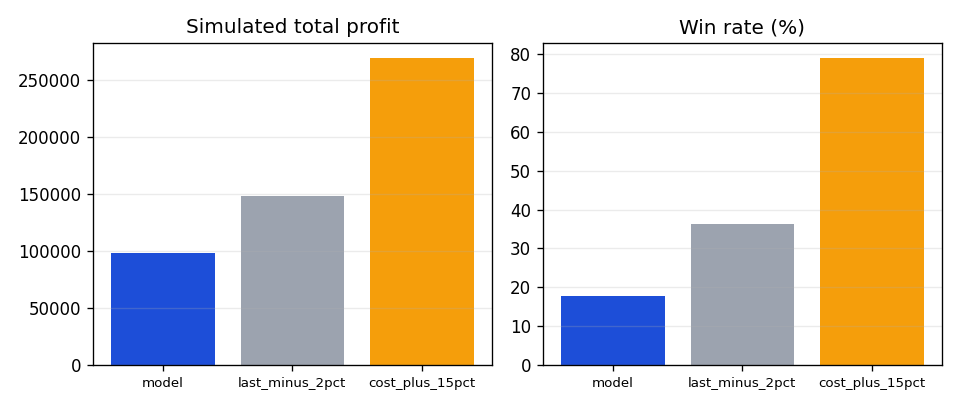
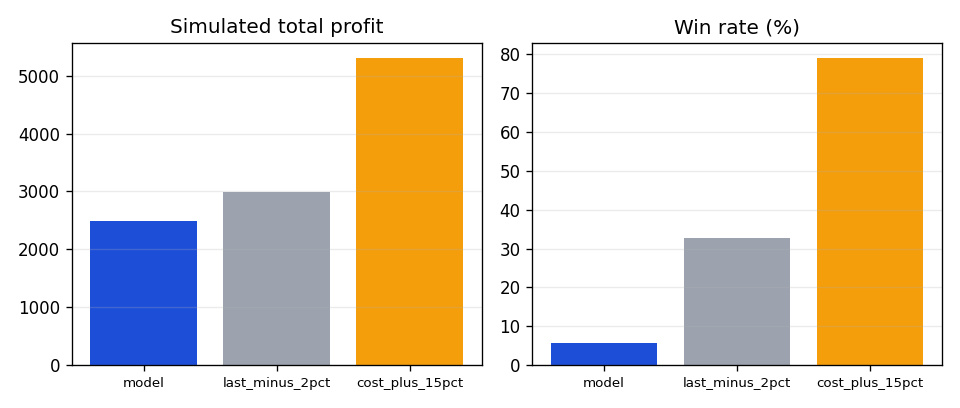
Restore ml/reports: regenerated by a local test run, not a real model update

diff --git a/ml/reports/latest_model.md b/ml/reports/latest_model.md
@@ -1,8 +1,8 @@
 # Latest pricing model
 
-Model run **#2**: not promoted (pinball 0.0610 >= active 0.0610).
+Model run **#2**: not promoted (pinball 0.0689 >= active 0.0689).
 
-_Trained on 1,766 award rows, of which 1,762 are the synthetic demo history from `make seed`. Metrics on synthetic data show the pipeline works; they are not evidence about real DIBBS prices._
+_Trained on 1,458 award rows, of which 1,454 are the synthetic demo history from `make seed`. Metrics on synthetic data show the pipeline works; they are not evidence about real DIBBS prices._
 
 ## Data and time windows
 
@@ -10,9 +10,9 @@ Time-based split, never random: train on everything up to T-4 months, conformal 
 
 | Window | Dates | Rows |
 |---|---|---|
-| Train | 2023-01-02 .. 2026-07-18 | 1,611 |
-| Calibrate | 2026-07-18 .. 2026-08-18 | 37 |
-| Test | 2026-08-18 .. 2026-11-18 | 118 |
+| Train | 2023-01-01 .. 2026-06-15 | 1,354 |
+| Calibrate | 2026-06-15 .. 2026-07-15 | 33 |
+| Test | 2026-07-15 .. 2026-10-15 | 71 |
 
 
 Cold-start share of test rows (no prior award for the NSN): 0.0%.
@@ -23,13 +23,13 @@ Target: log(winning unit price / reference price). Pinball loss is averaged over
 
 | Metric | LightGBM + conformal | LightGBM (uncalibrated) | Baseline |
 |---|---|---|---|
-| Mean pinball loss | **0.0610** | 0.0585 | 0.1020 |
-| MAPE of median | 17.1% | 16.3% | 29.4% |
-| Median abs. % error | 13.5% | 12.6% | 22.5% |
-| 80% interval coverage | 95.8% | 69.5% | 73.7% |
-| 90% interval coverage | 98.3% | 79.7% | 82.2% |
+| Mean pinball loss | **0.0689** | 0.0636 | 0.0931 |
+| MAPE of median | 19.2% | 18.7% | 29.3% |
+| Median abs. % error | 14.2% | 13.5% | 19.2% |
+| 80% interval coverage | 85.9% | 66.2% | 77.5% |
+| 90% interval coverage | 90.1% | 77.5% | 85.9% |
 
-Previously active model on the same test window: pinball 0.0610, 80% coverage 95.8%.
+Previously active model on the same test window: pinball 0.0689, 80% coverage 85.9%.
 
 ![Pinball loss by quantile](pinball.png)
 
@@ -37,9 +37,9 @@ Previously active model on the same test window: pinball 0.0610, 80% coverage 95
 
 | Level | 0.05 | 0.10 | 0.20 | 0.30 | 0.40 | 0.50 | 0.60 | 0.70 | 0.80 | 0.90 | 0.95 |
 |---|---|---|---|---|---|---|---|---|---|---|---|
-| Model | 0.01 | 0.02 | 0.11 | 0.28 | 0.42 | 0.57 | 0.64 | 0.81 | 0.86 | 0.97 | 0.99 |
-| Before conformal | 0.08 | 0.12 | 0.21 | 0.35 | 0.42 | 0.49 | 0.54 | 0.63 | 0.71 | 0.81 | 0.88 |
-| Baseline | 0.08 | 0.10 | 0.20 | 0.29 | 0.36 | 0.49 | 0.61 | 0.67 | 0.77 | 0.84 | 0.90 |
+| Model | 0.10 | 0.13 | 0.14 | 0.28 | 0.38 | 0.55 | 0.73 | 0.90 | 0.97 | 0.99 | 1.00 |
+| Before conformal | 0.17 | 0.20 | 0.28 | 0.32 | 0.38 | 0.48 | 0.56 | 0.68 | 0.76 | 0.86 | 0.94 |
+| Baseline | 0.10 | 0.14 | 0.23 | 0.38 | 0.45 | 0.54 | 0.62 | 0.70 | 0.83 | 0.92 | 0.96 |
 
 ![Coverage](coverage.png)
 
@@ -49,18 +49,18 @@ For every test line, 5 bids are sampled around the reference price (b = ref x ex
 
 | Predicted bucket | Mean predicted | Observed | Count |
 |---|---|---|---|
-| 0.0-0.1 | 0.075 | 0.021 | 48 |
-| 0.1-0.2 | 0.140 | 0.082 | 85 |
-| 0.2-0.3 | 0.249 | 0.310 | 29 |
-| 0.3-0.4 | 0.343 | 0.267 | 75 |
-| 0.4-0.5 | 0.450 | 0.364 | 22 |
-| 0.5-0.6 | 0.555 | 0.396 | 53 |
-| 0.6-0.7 | 0.648 | 0.775 | 40 |
-| 0.7-0.8 | 0.755 | 0.807 | 83 |
-| 0.8-0.9 | 0.855 | 0.930 | 86 |
-| 0.9-1.0 | 0.955 | 1.000 | 69 |
+| 0.0-0.1 | 0.065 | 0.000 | 22 |
+| 0.1-0.2 | 0.150 | 0.000 | 23 |
+| 0.2-0.3 | 0.256 | 0.050 | 60 |
+| 0.3-0.4 | 0.350 | 0.205 | 44 |
+| 0.4-0.5 | 0.439 | 0.212 | 33 |
+| 0.5-0.6 | 0.552 | 0.739 | 23 |
+| 0.6-0.7 | 0.661 | 0.756 | 41 |
+| 0.7-0.8 | 0.742 | 0.780 | 41 |
+| 0.8-0.9 | 0.841 | 0.810 | 21 |
+| 0.9-1.0 | 0.979 | 0.936 | 47 |
 
-Brier score 0.1270, expected calibration error 0.0751 (baseline: Brier 0.2098, ECE 0.0517).
+Brier score 0.1334, expected calibration error 0.1228 (baseline: Brier 0.1923, ECE 0.0601).
 
 ![P(win) calibration](calibration.png)
 
@@ -70,9 +70,9 @@ Assumption: landed cost = winning price x U(0.6, 0.95); bid wins iff bid < winni
 
 | Policy | Bids | Withheld by rules | Wins | Win rate | Total profit | Net of effort | Net per line | Wins below cost |
 |---|---|---|---|---|---|---|---|---|
-| model | 118 | 0 | 21 | 17.8% | $98,712 | $96,942 | $821.54 | 0 |
-| last_minus_2pct | 77 | 41 | 28 | 36.4% | $147,870 | $146,715 | $1,243.35 | 0 |
-| cost_plus_15pct | 118 | 0 | 93 | 78.8% | $268,719 | $266,949 | $2,262.28 | 0 |
+| model | 71 | 0 | 4 | 5.6% | $2,488 | $1,423 | $20.04 | 0 |
+| last_minus_2pct | 52 | 19 | 17 | 32.7% | $2,994 | $2,214 | $31.19 | 0 |
+| cost_plus_15pct | 71 | 0 | 56 | 78.9% | $5,298 | $4,233 | $59.62 | 0 |
 
 ![Backtest](backtest.png)
 
@@ -80,21 +80,21 @@ Assumption: landed cost = winning price x U(0.6, 0.95); bid wins iff bid < winni
 
 | Feature | Importance |
 |---|---|
-| log_last_to_dod | 12.8% |
-| qty_rel_median | 8.9% |
-| log_qty_vs_last | 8.4% |
-| f_min | 7.5% |
-| f_max | 7.2% |
-| trend_per_year | 6.2% |
-| f_last3_median | 5.8% |
-| log_ref_price | 5.6% |
-| volatility | 5.5% |
-| days_since_last_award | 4.9% |
-| log_quantity | 4.0% |
+| qty_rel_median | 10.3% |
+| f_min | 9.0% |
+| log_qty_vs_last | 8.1% |
+| log_last_to_dod | 7.8% |
+| volatility | 7.4% |
+| f_last3_median | 7.0% |
+| trend_per_year | 6.9% |
+| f_max | 6.5% |
+| log_quantity | 6.3% |
+| log_ref_price | 5.8% |
+| days_since_last_award | 5.1% |
 | inflation_change | 4.0% |
 | incumbent_share | 3.3% |
-| n_prior_awards | 3.0% |
-| fam_log_ref_vs_fsc | 2.1% |
+| n_prior_awards | 2.6% |
+| type_code | 2.2% |
 
 ## Caveats
 

diff --git a/ml/reports/fsc_volume.md b/ml/reports/fsc_volume.md
@@ -1,12 +1,12 @@
 # FSC volume report
 
-Generated 2026-11-18 from the database (real DIBBS data only; synthetic SPEZZ* demo rows excluded).
+Generated 2026-10-15 from the database (real DIBBS data only; synthetic SPEZZ* demo rows excluded).
 
 Ranked by number of solicitations. `*` marks the current default watchlist.
 
 | FSC | Solicitations | Automated (T/U) | Median award value | NSNs with >= 3 awards | Distinct awardees | NSNs | Award rows |
 |---|---|---|---|---|---|---|---|
-| 6145 | 58 | 100% | $372 | 0% | 2 | 55 | 2 |
+| 6145 * | 58 | 100% | $372 | 0% | 2 | 55 | 2 |
 
 ## Observed in the captured index files
 
